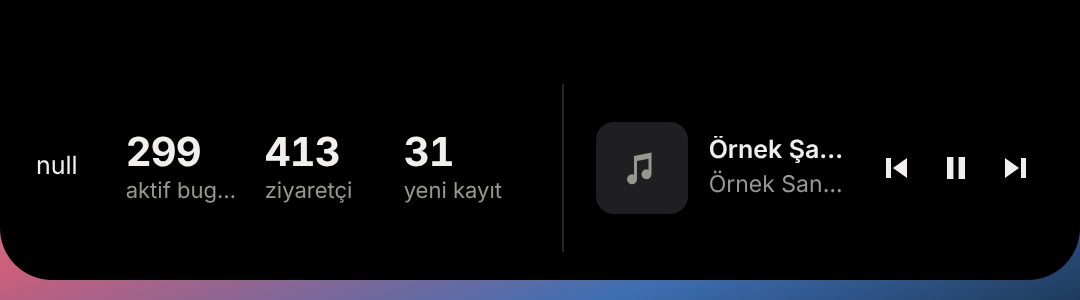
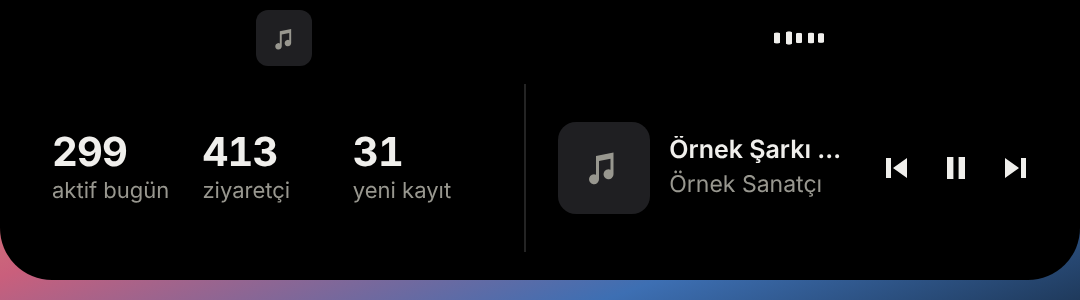
Çalarken çentikte küçük gösterge: albüm kapağı ve ses çubukları
Bir şey çalarken ada kapalıyken de çentiğin iki yanında kapak ve hareketli
çubuklar görünür; duraklatınca kaybolur. Çalan içerik artık arka planda
seyrek aralıkla sorulur. YouTube için oynuyor/durdu bilgisi okunur.
Adada boş değerlerin "null" yazısı olarak görünmesi düzeltildi.

Claude-Session: https://claude.ai/code/session_01Dzdd9oqUnfGAj1HtHC77kg

diff --git a/src/main/centik.js b/src/main/centik.js
@@ -1,16 +1,19 @@
 // Çentik görünümü: fare ekranın üst ortasına (MacBook çentiğine) gelince aşağı doğru açılan küçük özet.
+// Bir şey çalarken kapalıyken de çentiğin iki yanında küçük bir ada kalır: solda kapak, sağda ses çubukları.
 // Çentiksiz ekranda da aynı yerde çalışır. Pencere odak çalmaz; fare uzaklaşınca kapanır.
 const { BrowserWindow, screen } = require("electron");
 const path = require("node:path");
 
 const EN = 540, BOY = 150;
+const KUCUK_EN = 310;   // çalarken görünen küçük ada: çentik + iki yanda birer "kulak"
 const BOLGE_EN = 200;   // çentiğin yaklaşık genişliği (pt)
 const BOLGE_BOY = 6;    // üst kenardan itibaren tetikleyen şerit
 
-// Saf karar işlevi: sınanabilir. d: { acik, girme, cikma }, olay: imleç ve ekran → yeni durum + eylem.
-function adim(d, imlec, ekran, pencere) {
+// Saf karar işlevi: sınanabilir. d: { acik, girme, cikma } + imleç, ekran, pencere → yeni durum + eylem.
+// bolge: tetikleyen alanın boyutu; küçük ada görünürken adanın tamamıdır.
+function adim(d, imlec, ekran, pencere, bolge = { en: BOLGE_EN, boy: BOLGE_BOY }) {
   const merkez = ekran.x + ekran.width / 2;
-  const bolgede = Math.abs(imlec.x - merkez) <= BOLGE_EN / 2 && imlec.y >= ekran.y && imlec.y - ekran.y <= BOLGE_BOY;
+  const bolgede = Math.abs(imlec.x - merkez) <= bolge.en / 2 && imlec.y >= ekran.y && imlec.y - ekran.y <= bolge.boy;
   if (!d.acik) {
     const girme = bolgede ? d.girme + 1 : 0;
     return girme >= 2 ? { acik: true, girme: 0, cikma: 0, eylem: "ac" } : { acik: false, girme, cikma: 0, eylem: null };
@@ -20,6 +23,9 @@ function adim(d, imlec, ekran, pencere) {
   const cikma = icinde || bolgede ? 0 : d.cikma + 1;
   return cikma >= 3 ? { acik: false, girme: 0, cikma: 0, eylem: "kapat" } : { acik: true, girme: 0, cikma, eylem: null };
 }
+
+// Küçük adanın yüksekliği menü çubuğununki kadardır (çentikli ekranda çentik yüksekliği).
+const kucukBoy = (menuCubugu) => Math.min(40, Math.max(24, Math.round(menuCubugu) || 24));
 
 function centikKur({ veriAl, acildi, kapandi }) {
   const pencere = new BrowserWindow({
@@ -36,42 +42,82 @@ function centikKur({ veriAl, acildi, kapandi }) {
   pencere.webContents.setWindowOpenHandler(() => ({ action: "deny" }));
 
   let d = { acik: false, girme: 0, cikma: 0 };
-  let sayac = null, gizleme = null;
+  let sayac = null, gizleme = null, kucukGorunur = false, calisiyor = false;
 
   // Çentik dahili ekrandadır; dahili ekran yoksa birincil ekranın üst ortası kullanılır.
-  const ekranBul = () => (screen.getAllDisplays().find((e) => e.internal) || screen.getPrimaryDisplay()).bounds;
+  function olcu() {
+    const e = screen.getAllDisplays().find((x) => x.internal) || screen.getPrimaryDisplay();
+    return { ekran: e.bounds, kb: kucukBoy(e.workArea.y - e.bounds.y) };
+  }
+
+  function paket(acik) {
+    const veri = veriAl();
+    const caliyor = Boolean(veri.medya && veri.medya.oynuyor === true);
+    return { acik, kb: olcu().kb, kucuk: caliyor ? { kapak: veri.medya.kapak, kaynak: veri.medya.kaynak } : null, ...veri };
+  }
+
+  // Kapalı hâl: bir şey çalıyorsa küçük ada görünür, çalmıyorsa pencere gizlenir.
+  function dinlen() {
+    if (d.acik || pencere.isDestroyed()) return;
+    const p = paket(false);
+    if (p.kucuk && calisiyor) {
+      const { ekran, kb } = olcu();
+      pencere.setBounds({ x: Math.round(ekran.x + ekran.width / 2 - KUCUK_EN / 2), y: ekran.y, width: KUCUK_EN, height: kb });
+      if (!pencere.isVisible()) pencere.showInactive();
+      kucukGorunur = true;
+    } else {
+      if (pencere.isVisible()) pencere.hide();
+      kucukGorunur = false;
+    }
+    pencere.webContents.send("centik", p);
+  }
 
   function kapat() {
+    if (!d.acik) return;
     d = { acik: false, girme: 0, cikma: 0 };
     if (pencere.isDestroyed()) return;
-    pencere.webContents.send("centik", { acik: false });
+    pencere.webContents.send("centik", paket(false)); // kapanma canlandırması başlar
     clearTimeout(gizleme);
-    gizleme = setTimeout(() => { if (!d.acik && !pencere.isDestroyed()) pencere.hide(); }, 240);
+    gizleme = setTimeout(dinlen, 240);
     kapandi();
   }
 
   function tik() {
     if (pencere.isDestroyed()) return;
-    const ekran = ekranBul();
-    const sonuc = adim(d, screen.getCursorScreenPoint(), ekran, pencere.getBounds());
+    const { ekran, kb } = olcu();
+    const bolge = kucukGorunur ? { en: KUCUK_EN, boy: kb } : undefined;
+    const sonuc = adim(d, screen.getCursorScreenPoint(), ekran, pencere.getBounds(), bolge);
     d = { acik: sonuc.acik, girme: sonuc.girme, cikma: sonuc.cikma };
     if (sonuc.eylem === "ac") {
       clearTimeout(gizleme);
       pencere.setBounds({ x: Math.round(ekran.x + ekran.width / 2 - EN / 2), y: ekran.y, width: EN, height: BOY });
-      pencere.showInactive();
-      pencere.webContents.send("centik", { acik: true, ...veriAl() });
+      if (!pencere.isVisible()) pencere.showInactive();
+      pencere.webContents.send("centik", paket(true));
       acildi();
-    } else if (sonuc.eylem === "kapat") kapat();
+    } else if (sonuc.eylem === "kapat") {
+      d.acik = true; // kapat() yalnızca açıkken çalışır
+      kapat();
+    }
   }
 
   return {
     pencere,
     acik: () => d.acik,
     kapat,
-    gonder: (veri) => { if (d.acik && !pencere.isDestroyed()) pencere.webContents.send("centik", { acik: true, ...veri }); },
-    baslat() { clearInterval(sayac); sayac = setInterval(tik, 150); },
-    durdur() { clearInterval(sayac); sayac = null; if (d.acik) kapat(); },
+    // Veri değişti (yeni rakamlar, yeni şarkı, duraklatıldı): açık adayı ya da küçük adayı güncelle.
+    guncelle() {
+      if (pencere.isDestroyed() || !calisiyor) return;
+      if (d.acik) pencere.webContents.send("centik", paket(true)); else if (!gizleme || gizleme._destroyed) dinlen();
+    },
+    baslat() { calisiyor = true; clearInterval(sayac); sayac = setInterval(tik, 150); },
+    durdur() {
+      calisiyor = false; clearInterval(sayac); sayac = null; clearTimeout(gizleme);
+      const acikti = d.acik;
+      d = { acik: false, girme: 0, cikma: 0 }; kucukGorunur = false;
+      if (!pencere.isDestroyed()) pencere.hide();
+      if (acikti) kapandi();
+    },
   };
 }
 
-module.exports = { centikKur, adim, EN, BOY };
+module.exports = { centikKur, adim, kucukBoy, EN, BOY, KUCUK_EN };

diff --git a/src/renderer/centik.js b/src/renderer/centik.js
@@ -6,6 +6,7 @@ if (!window.appati) document.body.classList.add("onizleme");
 
 const SVGNS = "http://www.w3.org/2000/svg";
 const ada = document.getElementById("ada");
+const kucuk = document.getElementById("kucuk");
 let ipucu = null; // { metin, bitis }
 
 function h(etiket, ozellik, ...cocuklar) {
@@ -52,7 +53,7 @@ function medyaParcasi(v) {
   const uyari = ipucu && ipucu.bitis > Date.now() ? ipucu.metin : null;
   const tuslar = m.kaynak === "spotify"
     ? [tus("onceki", "Önceki", "onceki"), tus(m.oynuyor ? "durdur" : "oynat", m.oynuyor ? "Duraklat" : "Oynat", "oynat"), tus("sonraki", "Sonraki", "sonraki")]
-    : [tus("ikisi", "Oynat / duraklat", "oynat")];
+    : [m.oynuyor === null ? tus("ikisi", "Oynat / duraklat", "oynat") : tus(m.oynuyor ? "durdur" : "oynat", m.oynuyor ? "Duraklat" : "Oynat", "oynat")];
   return h("div", { class: "medya" }, kapak,
     h("div", { class: "parca" }, h("b", { title: m.baslik }, m.baslik), h("span", { class: uyari ? "ipucu" : null }, uyari || m.alt)),
     h("div", { class: "tuslar" }, tuslar));
@@ -65,12 +66,28 @@ function ciz(v) {
     v.rakamlar && v.rakamlar.length
       ? v.rakamlar.map((r) => h("div", { class: "rakam" }, h("b", null, r.deger), h("span", null, r.etiket)))
       : h("div", { class: "rakam bos" }, "Veri okunuyor…"));
-  ada.replaceChildren(v.demo ? h("div", { class: "ornek" }, "örnek veri") : null, rakamlar, v.medyaAcik ? h("div", { class: "ayrac" }) : null, v.medyaAcik ? medyaParcasi(v) : null);
+  // replaceChildren boş değerleri "null" yazısına çevirir; önce ayıkla.
+  ada.replaceChildren(...[v.demo ? h("div", { class: "ornek" }, "örnek veri") : null, rakamlar, v.medyaAcik ? h("div", { class: "ayrac" }) : null, v.medyaAcik ? medyaParcasi(v) : null].filter(Boolean));
+}
+
+// Küçük ada: çalarken çentiğin solunda kapak, sağında hareketli ses çubukları. Kapak aynıysa yeniden çizilmez
+// (çubukların canlandırması her güncellemede baştan başlamasın).
+let kucukImza = null;
+function kucukCiz(v) {
+  document.documentElement.style.setProperty("--kb", `${v.kb || 32}px`);
+  const imza = v.kucuk ? `${v.kucuk.kaynak}|${v.kucuk.kapak}` : null;
+  if (imza === kucukImza) return;
+  kucukImza = imza;
+  kucuk.hidden = !v.kucuk;
+  if (!v.kucuk) { kucuk.replaceChildren(); return; }
+  const kapak = v.kucuk.kapak ? h("img", { class: "mini-kapak", src: v.kucuk.kapak, alt: "" }) : h("div", { class: "mini-kapak" }, ikon("nota"));
+  kucuk.replaceChildren(kapak, h("div", { class: "dalga", role: "img", "aria-label": "Çalıyor" }, [0, 1, 2, 3, 4].map(() => h("i"))));
 }
 
 kopru.centikDinle((v) => {
+  kucukCiz(v);
   if (v.acik) { ciz(v); requestAnimationFrame(() => ada.classList.add("acik")); } else ada.classList.remove("acik");
 });
 
 // Tarayıcı önizlemesi (tools/preview.js)
-if (window.__CENTIK__) { ciz(window.__CENTIK__); ada.classList.add("acik"); }
+if (window.__CENTIK__) { kucukCiz(window.__CENTIK__); if (window.__CENTIK__.acik) { ciz(window.__CENTIK__); ada.classList.add("acik"); } }

diff --git a/tools/preview.js b/tools/preview.js
@@ -27,6 +27,8 @@ const { KAYNAKLAR, SABLONLAR } = require("../src/main/katalog");
     await sayfa.goto(`file://${path.join(__dirname, "..", "src", "renderer", "index.html")}`);
     await sayfa.waitForSelector(".govde");
     if (sonra) await sonra(sayfa);
+    const yazi = await sayfa.evaluate(() => document.body.innerText);
+    if (/\b(null|undefined|NaN)\b/.test(yazi)) hatalar.push(`${ad}: arayüzde ham değer görünüyor`);
     await sayfa.screenshot({ path: path.join(cikti, `${ad}.png`) });
     await sayfa.close();
   };
@@ -48,12 +50,16 @@ const { KAYNAKLAR, SABLONLAR } = require("../src/main/katalog");
     await sayfa.addInitScript((v) => { window.__CENTIK__ = v; }, veri);
     await sayfa.goto(`file://${path.join(__dirname, "..", "src", "renderer", "centik.html")}`);
     await sayfa.waitForTimeout(400);
+    const yazi = await sayfa.evaluate(() => document.body.innerText);
+    if (/\b(null|undefined|NaN)\b/.test(yazi)) hatalar.push(`${ad}: arayüzde ham değer görünüyor: ${yazi.replace(/\s+/g, " ")}`);
     await sayfa.screenshot({ path: path.join(cikti, `${ad}.png`) });
     await sayfa.close();
   };
   const rakamlar = [{ etiket: "aktif bugün", deger: "299" }, { etiket: "ziyaretçi", deger: "413" }, { etiket: "yeni kayıt", deger: "31" }];
-  await centik("8-centik-calan", { rakamlar, demo: false, medyaAcik: true, medya: { kaynak: "spotify", oynuyor: true, baslik: "Örnek Şarkı Adı (Uzun Sürüm)", alt: "Örnek Sanatçı", kapak: null } });
-  await centik("8-centik-bos", { rakamlar, demo: true, medyaAcik: true, medya: null });
+  const calan = { kaynak: "spotify", oynuyor: true, baslik: "Örnek Şarkı Adı (Uzun Sürüm)", alt: "Örnek Sanatçı", kapak: null };
+  await centik("8-centik-kucuk", { acik: false, kb: 38, kucuk: { kaynak: "spotify", kapak: null }, rakamlar, demo: false, medyaAcik: true, medya: calan });
+  await centik("8-centik-calan", { acik: true, kb: 38, kucuk: { kaynak: "spotify", kapak: null }, rakamlar, demo: false, medyaAcik: true, medya: { kaynak: "spotify", oynuyor: true, baslik: "Örnek Şarkı Adı (Uzun Sürüm)", alt: "Örnek Sanatçı", kapak: null } });
+  await centik("8-centik-bos", { acik: true, kb: 38, kucuk: null, rakamlar, demo: true, medyaAcik: true, medya: null });
   await tarayici.close();
   if (hatalar.length) { console.error(hatalar.join("\n")); process.exit(1); }
   console.log("Sayfa hatası yok. Görüntüler:", cikti);

diff --git a/test/centik.test.js b/test/centik.test.js
@@ -5,7 +5,7 @@ const Module = require("node:module");
 // centik.js Electron'u yükler; saf karar işlevini sınamak için sahtesiyle değiştir.
 const asil = Module._load;
 Module._load = (ad, ...kalan) => (ad === "electron" ? { BrowserWindow: class {}, screen: {} } : asil(ad, ...kalan));
-const { adim, EN, BOY } = require("../src/main/centik");
+const { adim, kucukBoy, EN, BOY, KUCUK_EN } = require("../src/main/centik");
 const { medya, spotifyCoz, youtubeCoz } = require("../src/main/medya");
 Module._load = asil;
 
@@ -40,6 +40,13 @@ test("çentik: kenardan geçen ya da menüye giden fare açmaz", () => {
   assert.equal(adim({ acik: false, girme: 1, cikma: 0 }, { x: -960, y: 1 }, sol, pencere).eylem, "ac");
 });
 
+test("çentik: küçük ada görünürken adanın tamamı tetikler; yüksekliği menü çubuğuna uyar", () => {
+  const kulak = { x: 756 + 140, y: 20 }; // çentiğin sağındaki kulak, üst şeridin altında
+  assert.equal(adim({ acik: false, girme: 1, cikma: 0 }, kulak, ekran, pencere).acik, false);
+  assert.equal(adim({ acik: false, girme: 1, cikma: 0 }, kulak, ekran, pencere, { en: KUCUK_EN, boy: 38 }).eylem, "ac");
+  assert.deepEqual([kucukBoy(38), kucukBoy(24.5), kucukBoy(0), kucukBoy(90)], [38, 25, 24, 40]);
+});
+
 test("medya: Spotify ve YouTube çıktıları çözülür", () => {
   assert.deepEqual(spotifyCoz("playing\u001fŞarkı\u001fSanatçı\u001fhttps://i.scdn.co/image/abc"),
     { kaynak: "spotify", oynuyor: true, baslik: "Şarkı", alt: "Sanatçı", kapak: "https://i.scdn.co/image/abc" });
@@ -47,6 +54,9 @@ test("medya: Spotify ve YouTube çıktıları çözülür", () => {
   assert.equal(spotifyCoz("stopped"), null);
   const y = youtubeCoz("(3) Mol kavramı - YouTube\u001fhttps://www.youtube.com/watch?v=dQw4w9WgXcQ&t=12", "Safari");
   assert.deepEqual([y.baslik, y.kapak, y.alt], ["Mol kavramı", "https://i.ytimg.com/vi/dQw4w9WgXcQ/mqdefault.jpg", "YouTube · Safari"]);
+  assert.equal(y.oynuyor, null);
+  assert.equal(youtubeCoz("V - YouTube\u001fhttps://www.youtube.com/watch?v=abcdefghijk\u001foynuyor", "Arc").oynuyor, true);
+  assert.equal(youtubeCoz("V - YouTube\u001fhttps://www.youtube.com/watch?v=abcdefghijk\u001fdurdu", "Arc").oynuyor, false);
   assert.equal(youtubeCoz("", "Safari"), null);
 });
 

diff --git a/src/main/medya.js b/src/main/medya.js
@@ -20,10 +20,19 @@ const SPOTIFY_SOR = `tell application "Spotify"
   return d & a & (name of current track) & a & (artist of current track) & a & (artwork url of current track)
 end tell`;
 
+// Videonun oynayıp oynamadığı ancak tarayıcı "Apple Events'ten JavaScript'e izin ver" açıksa öğrenilir;
+// kapalıysa durum boş döner ve video "bilinmiyor" sayılır.
+const DURUM_JS = "(function(){var v=document.querySelector('video');return v?(v.paused?'durdu':'oynuyor'):'yok'})()";
 const kromSor = (ad) => `tell application "${ad}"
   repeat with w in windows
     repeat with t in tabs of w
-      if URL of t contains "youtube.com/watch" then return (title of t) & (character id 31) & (URL of t)
+      if URL of t contains "youtube.com/watch" then
+        set d to ""
+        try
+          set d to (execute t javascript "${DURUM_JS}") as string
+        end try
+        return (title of t) & (character id 31) & (URL of t) & (character id 31) & d
+      end if
     end repeat
   end repeat
   return ""
@@ -32,7 +41,13 @@ end tell`;
 const SAFARI_SOR = `tell application "Safari"
   repeat with w in windows
     repeat with t in tabs of w
-      if URL of t contains "youtube.com/watch" then return (name of t) & (character id 31) & (URL of t)
+      if URL of t contains "youtube.com/watch" then
+        set d to ""
+        try
+          set d to (do JavaScript "${DURUM_JS}" in t) as string
+        end try
+        return (name of t) & (character id 31) & (URL of t) & (character id 31) & d
+      end if
     end repeat
   end repeat
   return ""
@@ -64,11 +79,11 @@ function spotifyCoz(cikti) {
 
 function youtubeCoz(cikti, tarayici) {
   if (!cikti) return null;
-  const [baslik, adres] = cikti.split(AYRAC);
+  const [baslik, adres, hal] = cikti.split(AYRAC);
   const kimlik = (/[?&]v=([\w-]{6,20})/.exec(adres || "") || [])[1];
   if (!baslik || !kimlik) return null;
   return {
-    kaynak: "youtube", tarayici, oynuyor: null, alt: `YouTube · ${tarayici}`,
+    kaynak: "youtube", tarayici, oynuyor: hal === "oynuyor" ? true : hal === "durdu" ? false : null, alt: `YouTube · ${tarayici}`,
     baslik: baslik.replace(/^\(\d+\)\s*/, "").replace(/\s*-\s*YouTube$/, ""),
     kapak: `https://i.ytimg.com/vi/${kimlik}/mqdefault.jpg`,
   };

diff --git a/src/renderer/centik.css b/src/renderer/centik.css
@@ -44,3 +44,25 @@ button:focus-visible { outline: 2px solid #6da7ec; outline-offset: 2px; }
 .acik-degil { display: flex; gap: 6px; align-items: center; flex-wrap: wrap; }
 .acik-degil span { color: #98978f; width: 100%; font-size: 11.5px; }
 .ornek { position: absolute; top: 12px; left: 26px; font-size: 10.5px; color: #98978f; letter-spacing: 0.04em; text-transform: uppercase; }
+
+/* Küçük ada: çalarken çentiğin iki yanında görünen "kulaklar". Açık adanın üst şeridinde de yerinde kalır. */
+#kucuk {
+  position: absolute; top: 0; left: 50%; width: 310px; height: var(--kb, 32px); margin-left: -155px; z-index: 2;
+  background: #000; border-radius: 0 0 14px 14px; padding: 0 13px;
+  display: flex; align-items: center; justify-content: space-between; pointer-events: none;
+}
+#kucuk[hidden] { display: none; }
+.mini-kapak { width: calc(var(--kb, 32px) - 10px); height: calc(var(--kb, 32px) - 10px); border-radius: 6px; object-fit: cover; background: #1f1f22; display: grid; place-items: center; color: #98978f; }
+.mini-kapak svg { width: 13px; height: 13px; }
+.dalga { display: flex; align-items: center; gap: 2.5px; height: 16px; }
+.dalga i { display: block; width: 3px; height: 100%; border-radius: 2px; background: #f0efec; transform-origin: center; animation: dalga 0.9s ease-in-out infinite; }
+.dalga i:nth-child(1) { animation-duration: 0.82s; animation-delay: -0.3s; }
+.dalga i:nth-child(2) { animation-duration: 0.64s; animation-delay: -0.1s; }
+.dalga i:nth-child(3) { animation-duration: 0.95s; animation-delay: -0.55s; }
+.dalga i:nth-child(4) { animation-duration: 0.7s; animation-delay: -0.2s; }
+.dalga i:nth-child(5) { animation-duration: 0.88s; animation-delay: -0.45s; }
+@keyframes dalga { 0%, 100% { transform: scaleY(0.3); } 50% { transform: scaleY(1); } }
+@media (prefers-reduced-motion: reduce) {
+  .dalga i { animation: none; }
+  .dalga i:nth-child(odd) { transform: scaleY(0.45); } .dalga i:nth-child(even) { transform: scaleY(0.9); }
+}

diff --git a/src/main/main.js b/src/main/main.js
@@ -38,14 +38,25 @@ function centikVerisi() {
 const ORNEK_MEDYA = { kaynak: "spotify", oynuyor: true, baslik: "Örnek Şarkı", alt: "Örnek Sanatçı", kapak: null };
 
 async function medyaYenile() {
-  if (!kayit.ayar().genel.medya) return;
-  sonMedya = await calan.durum();
-  if (centik) centik.gonder(centikVerisi());
+  const g = kayit.ayar().genel;
+  sonMedya = g.medya && g.centik ? await calan.durum() : null;
+  if (centik) centik.guncelle();
+}
+
+// Çalan içerik: ada açıkken sık, kapalıyken seyrek sorulur (küçük ada bunun sayesinde belirir ve kaybolur).
+function medyaDongu() {
+  clearInterval(medyaSayac);
+  medyaSayac = null;
+  const g = kayit.ayar().genel;
+  if (!g.medya || !g.centik) { sonMedya = null; return; }
+  medyaSayac = setInterval(medyaYenile, centik && centik.acik() ? 1500 : 4000);
+  medyaYenile();
 }
 
 function centikAyarla() {
   if (!centik) return;
   if (kayit.ayar().genel.centik) centik.baslat(); else centik.durdur();
+  medyaDongu();
 }
 
 if (!app.requestSingleInstanceLock()) app.quit();
@@ -116,7 +127,7 @@ function tepsiKur() {
 
 function yayinla() {
   if (pencere && !pencere.isDestroyed()) pencere.webContents.send("durum", durum);
-  if (centik) centik.gonder(centikVerisi());
+  if (centik) centik.guncelle();
   if (tepsi && MAC) {
     // Simgenin yanındaki sayı: Ayarlar > Menü çubuğunda gösterilen sayı.
     const hangi = kayit.ayar().genel.cubukSayi;
@@ -217,8 +228,8 @@ app.whenReady().then(() => {
   // Çentik açıkken çalan içerik saniyede bir sorulur; kapalıyken hiç sorulmaz.
   centik = centikKur({
     veriAl: centikVerisi,
-    acildi: () => { medyaYenile(); clearInterval(medyaSayac); medyaSayac = setInterval(medyaYenile, 1500); },
-    kapandi: () => { clearInterval(medyaSayac); medyaSayac = null; },
+    acildi: medyaDongu,
+    kapandi: medyaDongu,
   });
   centikAyarla();
   globalShortcut.register("Alt+Command+A", ac_kapa);

diff --git a/tools/smoke.js b/tools/smoke.js
@@ -16,7 +16,15 @@ const assert = require("node:assert");
     env: { ...process.env, APPATI_TEST: "1" },
   });
   const hatalar = [];
-  const p = await uyg.firstWindow();
+  // İki pencere var (panel ve çentik); sıraları değişebildiği için paneli adresinden bul.
+  await uyg.firstWindow();
+  let p = null;
+  for (let i = 0; i < 50 && !p; i++) {
+    p = uyg.windows().find((w) => w.url().endsWith("index.html")) || null;
+    if (!p) await new Promise((r) => setTimeout(r, 100));
+  }
+  assert.ok(p, "panel penceresi bulundu");
+  assert.ok(uyg.windows().some((w) => w.url().endsWith("centik.html")), "çentik penceresi kuruldu");
   p.on("pageerror", (e) => hatalar.push(e.message));
   p.on("console", (m) => { if (m.type() === "error") hatalar.push(m.text()); });
 

diff --git a/src/renderer/centik.html b/src/renderer/centik.html
@@ -8,6 +8,7 @@
 </head>
 <body>
 <div id="ada" aria-live="polite"></div>
+<div id="kucuk" hidden></div>
 <script src="centik.js"></script>
 </body>
 </html>

diff --git a/README.md b/README.md
@@ -45,6 +45,8 @@ npm run dist       # dist/ altına .dmg ve .zip üret (Mac'te)
 
 Fare ekranın üst ortasına (MacBook çentiğine) gelince çentikten aşağı küçük bir özet açılır: bugünün rakamları ve çalan şarkı ya da video. Rakamlara tıklayınca tam panel sağda açılır; fare uzaklaşınca özet kapanır. Çentiksiz ekranda aynı yerde çalışır. **Ayarlar > Çentik** altından kapatılır.
 
+Bir şey çalarken ada kapalıyken de çentiğin iki yanında küçük bir gösterge kalır: solda albüm kapağı, sağda hareketli ses çubukları. Duraklatınca kaybolur. (Çubuklar süslemedir; gerçek ses düzeyini ölçmez.)
+
 - **Spotify:** çalan şarkı, kapak, önceki / oynat-duraklat / sonraki. Spotify masaüstü uygulaması açık olmalı.
 - **YouTube:** Chrome, Safari, Brave, Edge ya da Arc'ta açık videonun adı ve oynat/duraklat. Oynat/duraklat için tarayıcıda "Apple Events'ten JavaScript'e İzin Ver" açık olmalı (Chrome: Görünüm > Geliştirici; Safari: Geliştir menüsü).
 - Anahtar gerekmez. macOS ilk kullanımda "Appati, Spotify'ı denetlemek istiyor" diye izin sorar. Çalan içerik yalnızca özet açıkken sorulur.
